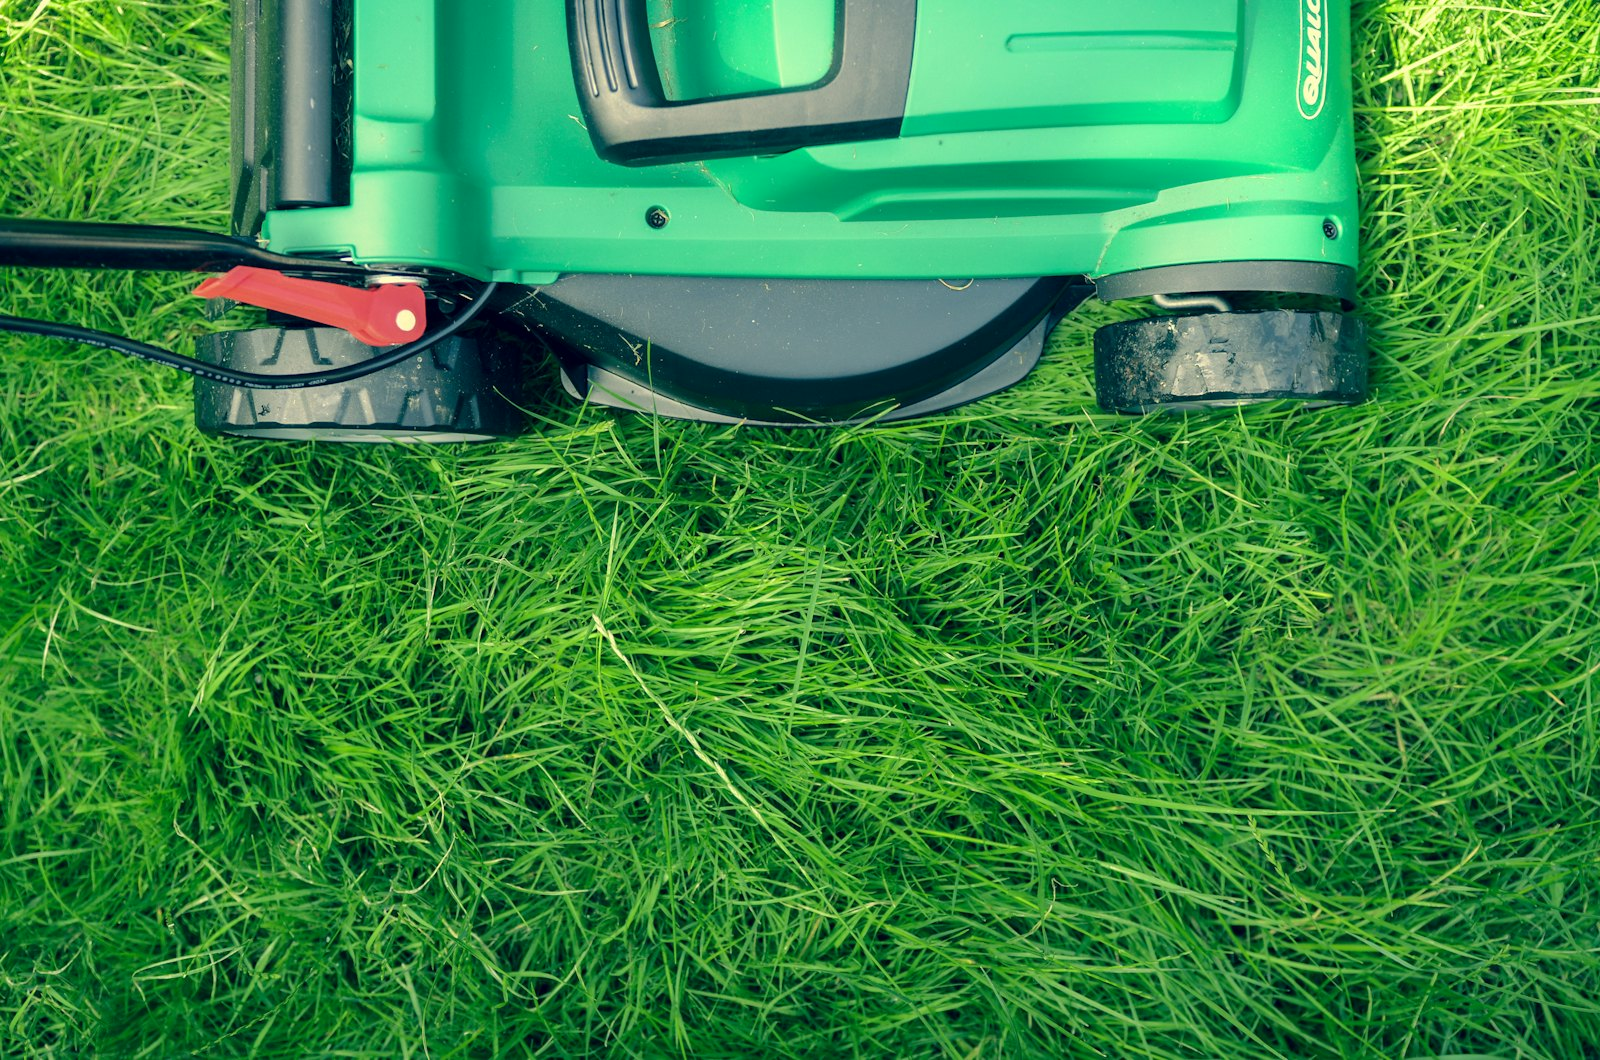
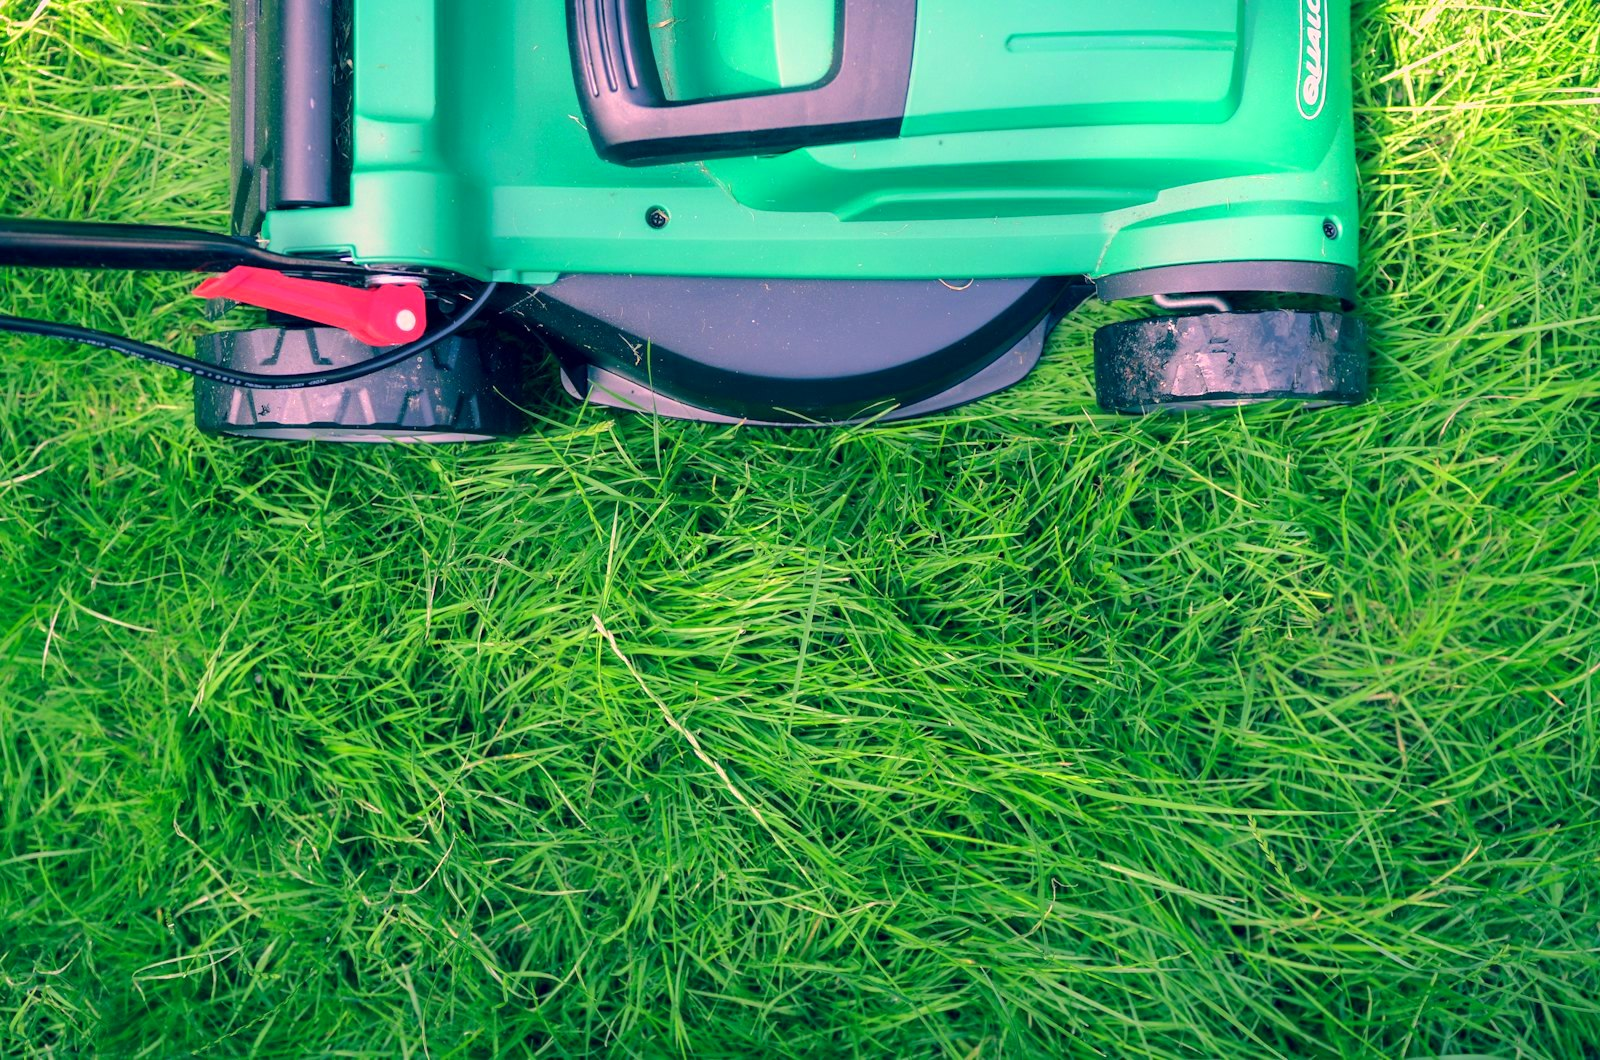
Cinematic hero grade: richer backgrounds (saturation/contrast/warmth) + 1200px slideshow files

diff --git a/index.html b/index.html
@@ -134,11 +134,11 @@
       <!-- Cinematic service scenes: 6 slow cross-dissolves, 18s seamless loop. Decorative only. -->
       <div class="hero-slideshow" aria-hidden="true">
         <div class="hero-slide" style="background-image:url('images/hero-lawn.jpg');animation-delay:0s"></div>
-        <div class="hero-slide" style="background-image:url('images/equip-overseeder.jpg');animation-delay:3s"></div>
-        <div class="hero-slide" style="background-image:url('images/equip-aerator.jpg');animation-delay:6s"></div>
-        <div class="hero-slide" style="background-image:url('images/equip-blower.jpg');animation-delay:9s"></div>
+        <div class="hero-slide" style="background-image:url('images/bg-treatment.jpg');animation-delay:3s"></div>
+        <div class="hero-slide" style="background-image:url('images/bg-aeration.jpg');animation-delay:6s"></div>
+        <div class="hero-slide" style="background-image:url('images/bg-cleanup.jpg');animation-delay:9s"></div>
         <div class="hero-slide" style="background-image:url('images/scene-mulch.jpg');animation-delay:12s"></div>
-        <div class="hero-slide" style="background-image:url('images/equip-hedge.jpg');animation-delay:15s"></div>
+        <div class="hero-slide" style="background-image:url('images/bg-hedge.jpg');animation-delay:15s"></div>
       </div>
       <!-- HERO VIDEO (optional upgrade): export 720p H.264 MP4 (<3MB, no audio, matching first/last frame)
            as videos/hero-lawn.mp4 (+ WebM copy), then uncomment. Slideshow auto-hides when video exists.

diff --git a/README.md b/README.md
@@ -28,6 +28,7 @@ lakeside-outdoors-services/
 - `images/hero-lawn.jpg` (525KB) — Daniel Watson — hero background
 - `images/work-after.jpg` (303KB) — Andres Siimon — Before/After slider (both sides; "before" side uses a CSS sepia/dull filter as a demo effect)
 - `images/crew-mowing.jpg` (1200×800, 240KB) — Carl Tronders — About section
+- `images/bg-*.jpg` (4 files, 1200×800) — hero slideshow scenes (treatment/aeration/cleanup/hedge), color-graded (saturation + contrast + warm daylight).
 - `images/equip-*.jpg` (8 files, 1000–1280px wide) — equipment cards: zero-turn + stand-on + walk-behind + trimmer + blower + hedge (Unsplash, free license); aerator + overseeder + walk-behind + trimmer + blower + stand-on action shots (Wikimedia Commons contributors, CC BY-SA — keep attribution if you keep these files; swapping in your own machine photos is recommended).
 - Replace with your OWN photos anytime: keep filenames (or update `index.html` + `.ba-before/.ba-after` in `css/style.css`). Keep each <500KB, add `width`/`height` + `loading="lazy"` on every `<img>`.
 
